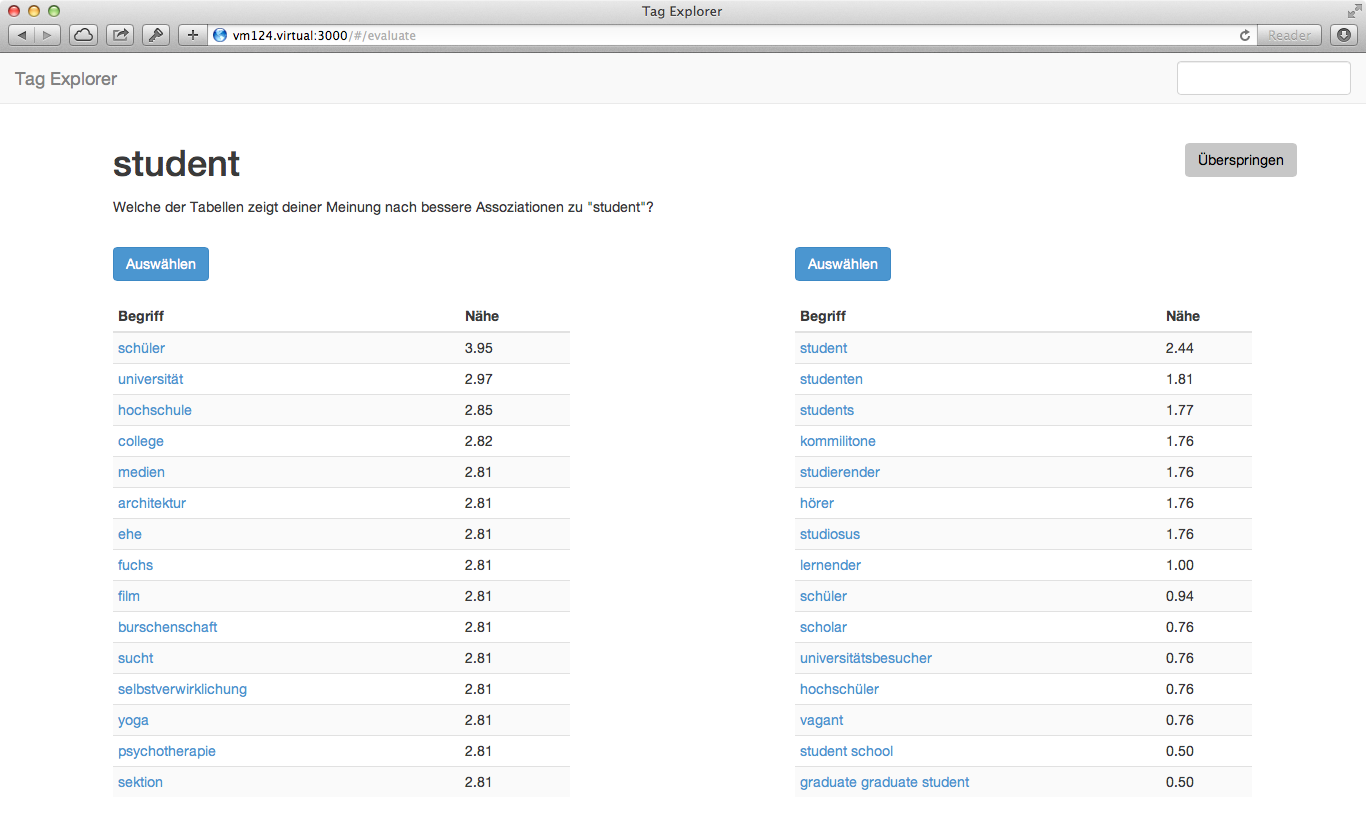
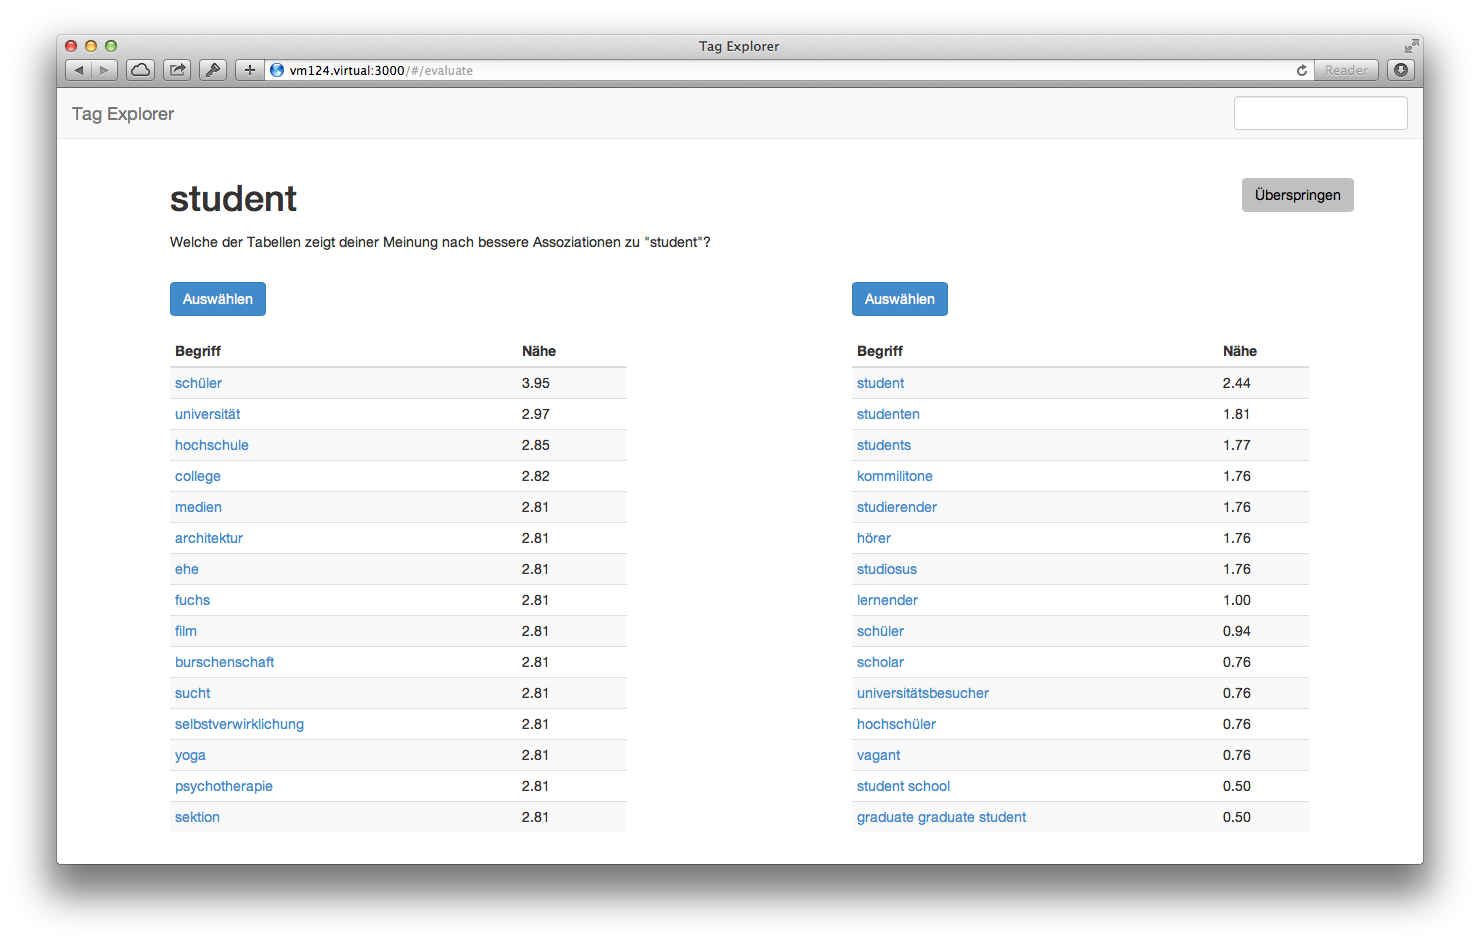
improve screenshots

Changed region(s): [[0.0, 0.0, 1.0, 0.9639], [0.7994, 0.6024, 0.8917, 0.8735], [0.7994, 0.3614, 0.8917, 0.5723]]

diff --git a/thesis/evaluation.tex b/thesis/evaluation.tex
@@ -146,4 +146,4 @@ Zur Mutation der reellwertigen Kantengewichtungen wurde das Verfahren der \emph{
 
 Nachdem in diesem Abschnitt die konkrete Umsetzung der Optimierung mittels interaktiver evolutionärer Algorithmen beschrieben wurde, folgt im nächsten Abschnitt die Darstellung und Diskussion der Ergebnisse.
 
-\section{Auswertung der Ergebnisse}
+\section{Ergebnisse}

diff --git a/thesis/link_discovery.tex b/thesis/link_discovery.tex
@@ -167,7 +167,7 @@ Spreadshirt betreibt ein Clicktracking-System, welches die Klicks der Benutzer a
 
 \begin{figure}
 \centering
-\includegraphics[width=0.9\textwidth]{search_result}
+\includegraphics[width=\textwidth]{search_result}
 \caption{Suchergebnisseite}
 \label{fig:search_result}
 \end{figure}

diff --git a/thesis/systembeschreibung.tex b/thesis/systembeschreibung.tex
@@ -174,7 +174,7 @@ Eine Beispielanwendung, die die API des Link Discovery-Systems nutzt, ist der \e
 
 \begin{figure}
 \centering
-\includegraphics[width=0.9\textwidth]{tag_explorer}
+\includegraphics[width=\textwidth]{tag_explorer}
 \caption{Tag Explorer}
 \label{fig:tag_explorer}
 \end{figure}
